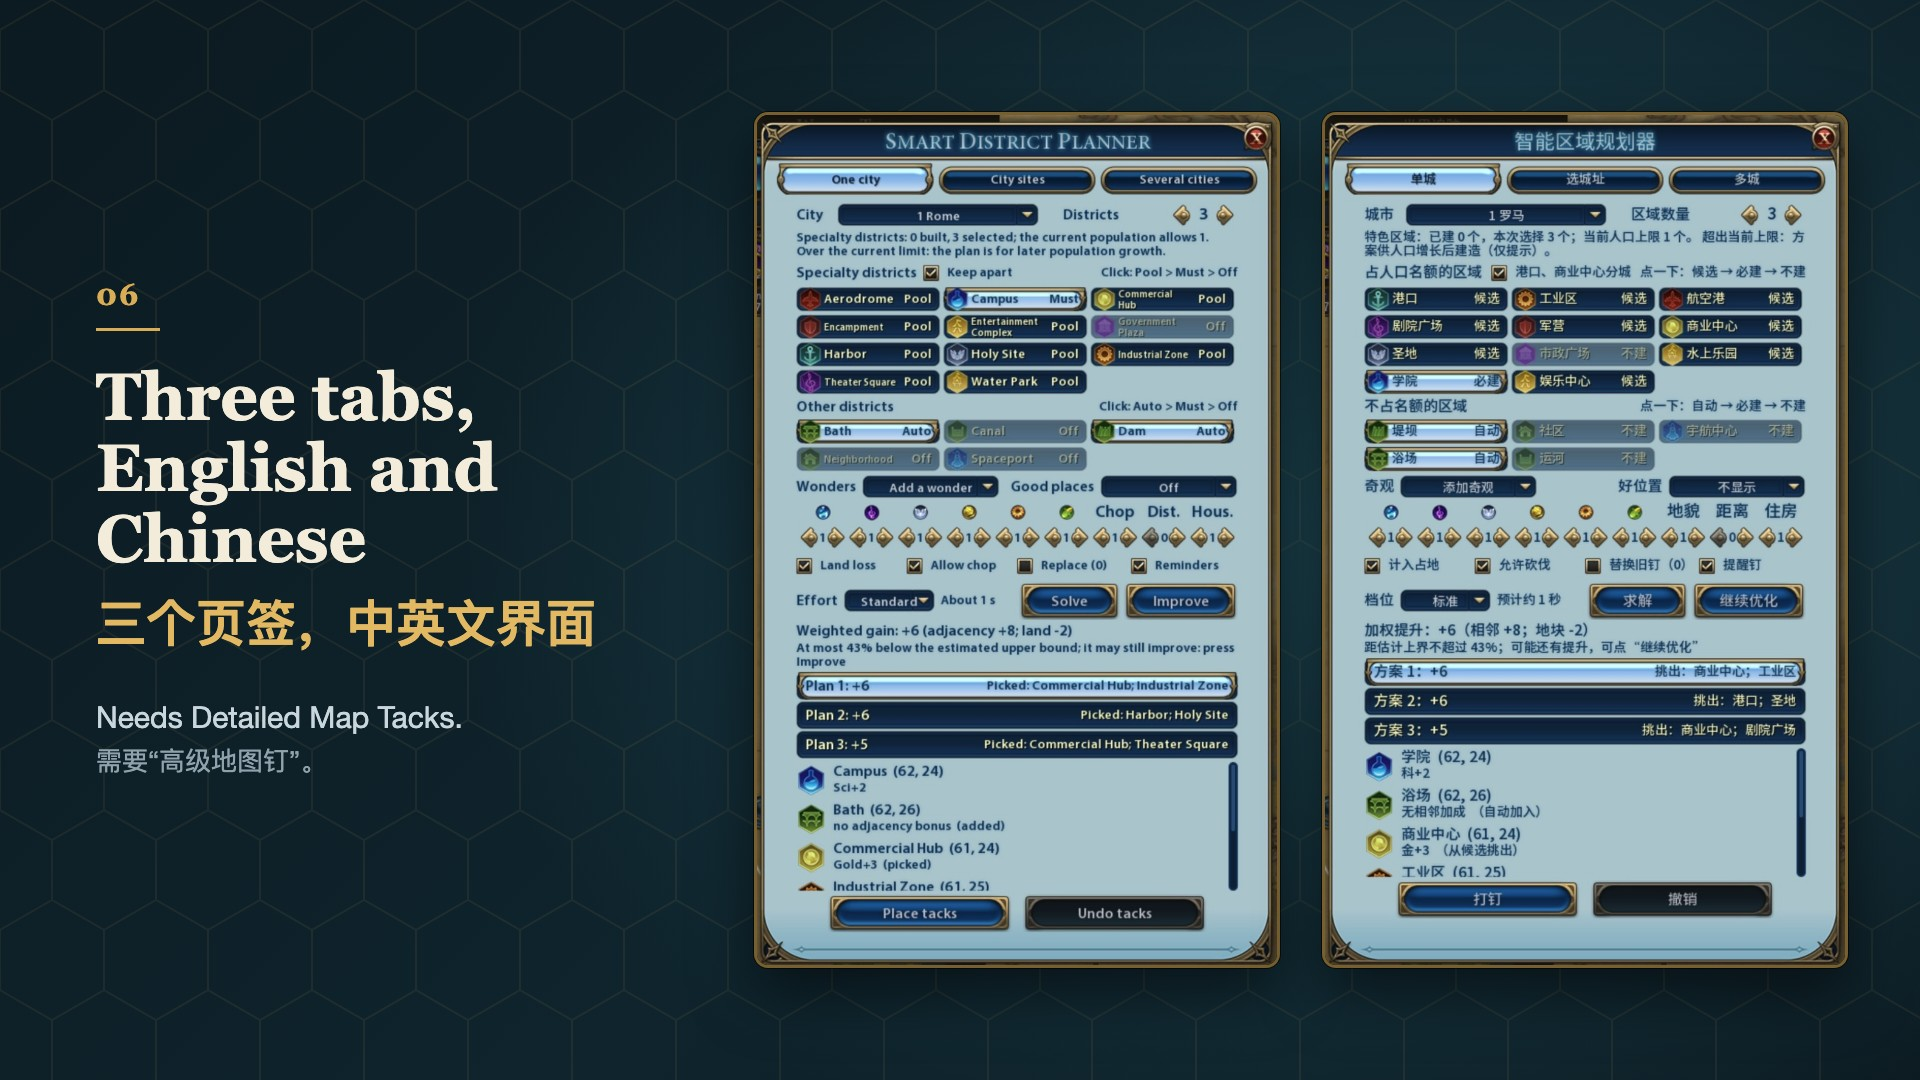
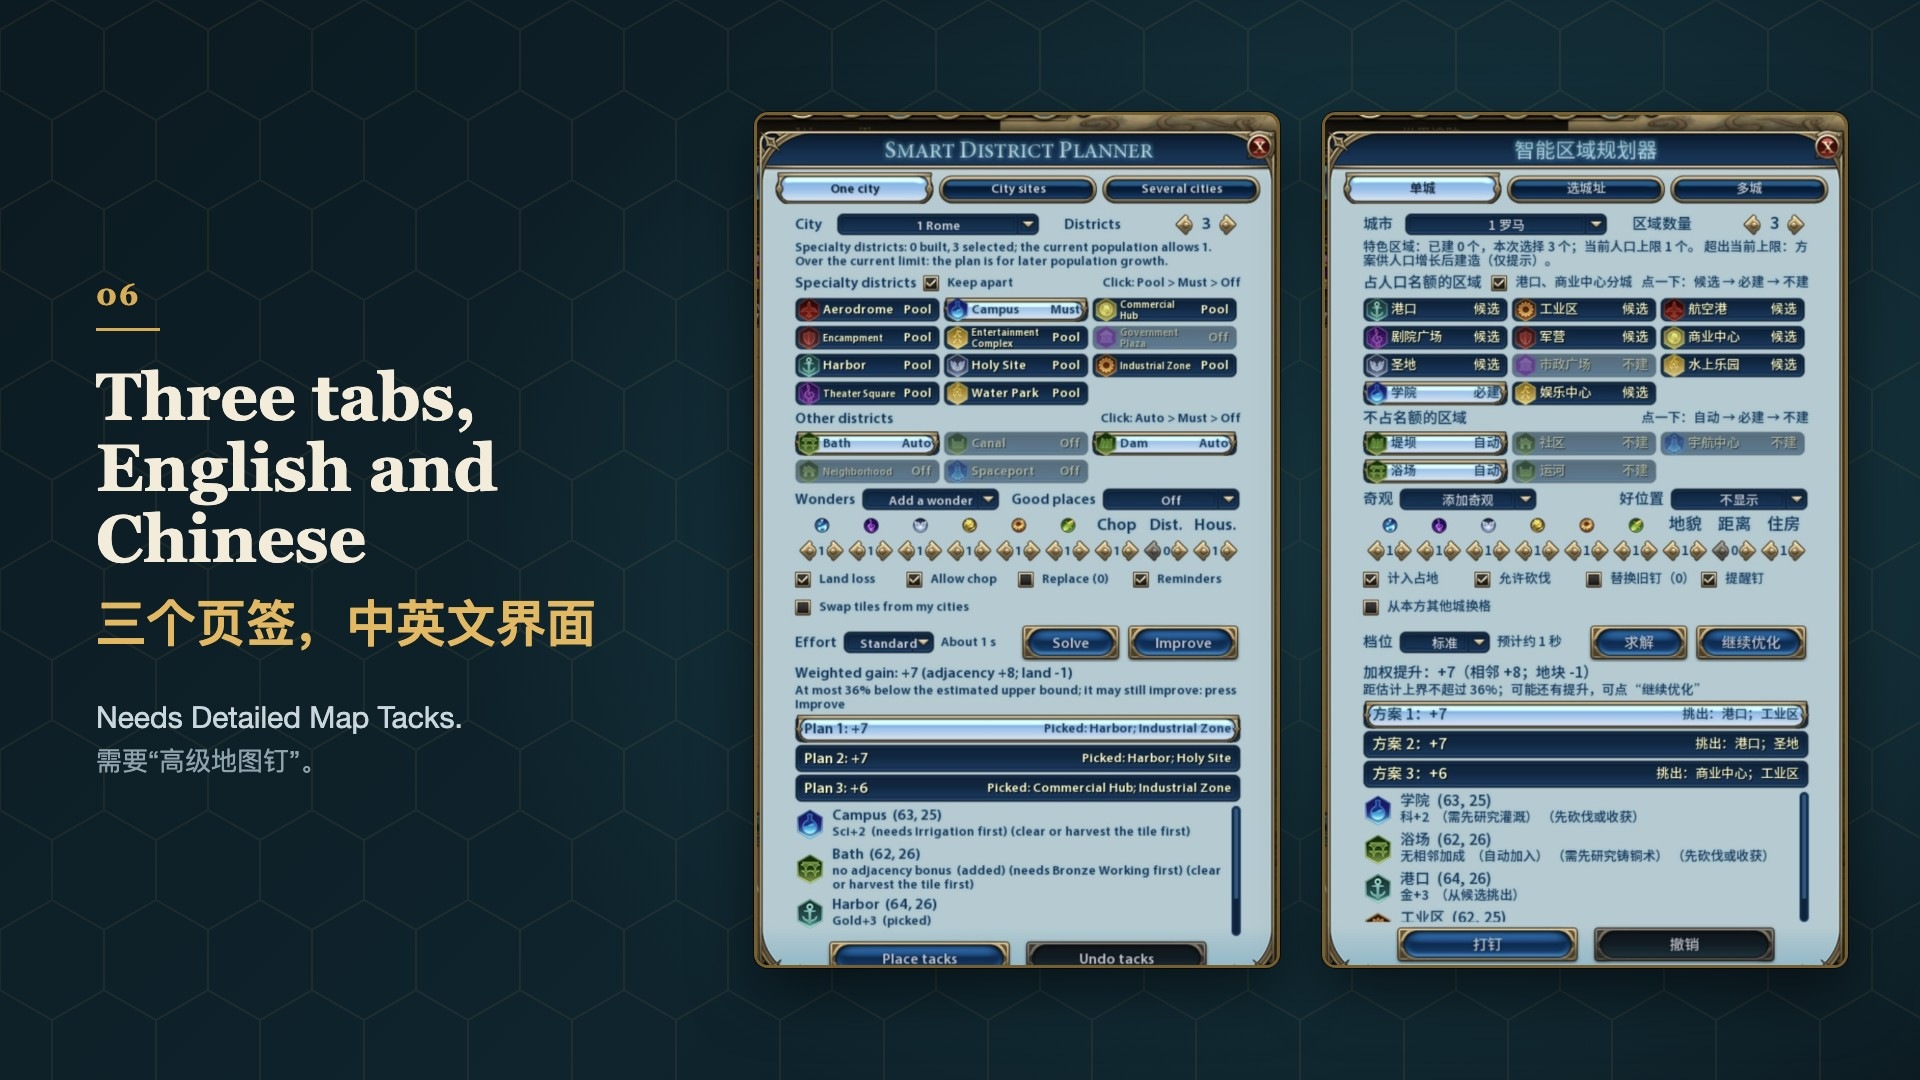
Panel screenshots with the swap switch, Chinese and English (v8)

Changed region(s): [[0.375, 0.0917, 0.9688, 0.9167]]

diff --git a/report/template_en.html b/report/template_en.html
@@ -338,8 +338,8 @@ details.appx[open] > summary { margin-bottom: 8px; }
     </div>
   </div>
   <div class="shots">
-    <figure class="tall"><img src="images/v7-en-panel-single.jpg" alt="The One city tab: districts in two grids, Campus set to Must, 3 districts, three plans in the result" loading="lazy"><figcaption>The One city tab: Campus is a Must, 3 districts, the other specialty districts are in the pool, the Dam and the Bath (Rome's Aqueduct) on Auto, Keep apart ticked. The three plans pick different districts; the Bath is marked as added, the Commercial Hub as picked.</figcaption></figure>
-    <figure class="tall"><img src="images/v7-en-panel-multi.jpg" alt="The Several cities tab: three site tacks take part, a shared list, 4 per city, the Great Library chosen" loading="lazy"><figcaption>The Several cities tab: three site tacks and the capital planned together; in the shared list the Campus, Holy Site, Commercial Hub and Government Plaza are Musts, 4 per city, with the Great Library. Only one Government Plaza per empire: it goes to Site 2, first in the list, and the other three cities take a Pool district instead; 18 districts across the four cities.</figcaption></figure>
+    <figure class="tall"><img src="images/v8-en-panel-single.jpg" alt="The One city tab: districts in two grids, Campus set to Must, 3 districts, three plans in the result" loading="lazy"><figcaption>The One city tab: Campus is a Must, 3 districts, the other specialty districts are in the pool, the Dam and the Bath (Rome's Aqueduct) on Auto, Keep apart and Land loss ticked. The weighted gain is split into adjacency and land; the three plans pick different districts; the Bath is marked as added, the Harbor as picked, with the tech each needs first and "clear or harvest the tile first".</figcaption></figure>
+    <figure class="tall"><img src="images/v8-en-panel-multi.jpg" alt="The Several cities tab: three site tacks take part, a shared list, 4 per city, the Great Library chosen" loading="lazy"><figcaption>The Several cities tab: three site tacks and the capital planned together; in the shared list the Campus, Holy Site, Commercial Hub and Government Plaza are Musts, 4 per city, with the Great Library. Only one Government Plaza per empire: it goes to Site 2, first in the list, and the other three cities take a Pool district instead; 19 districts across the four cities, the two Dams and the Bath added automatically among them.</figcaption></figure>
     <figure class="tall"><img src="images/v8-en-panel-sites.jpg" alt="The City sites tab: 5 districts ticked, each site scored with 3, three plans" loading="lazy"><figcaption>The City sites tab: 5 districts ticked, each site scored with 3; 40 of 160 candidate sites scored with districts, three plans.</figcaption></figure>
     <figure class="span2"><img src="images/v7-en-sites-tooltip.jpg" alt="A site's tooltip: Fresh Water, its distances, Diamonds, Gypsum and Wine, unrevealed tiles, disaster risk, features and districts" loading="lazy"><figcaption>Hovering a site: its water, how far it is from your nearest city and from the plan's other sites, the Luxury resources it gets (Gypsum counts as a new kind there), the natural disaster risk, and its features and districts.</figcaption></figure>
     <figure><img src="images/v3-coverage-tooltip.jpg" alt="Hovering an Industrial Zone row: DMT's breakdown and the cities in its reach" loading="lazy"><figcaption>Hovering a district with a reach: DMT's breakdown, then the cities it covers.</figcaption></figure>

diff --git a/report/template.html b/report/template.html
@@ -339,8 +339,8 @@ details.appx[open] > summary { margin-bottom: 8px; }
     </div>
   </div>
   <div class="shots">
-    <figure class="tall"><img src="images/v7-panel-single.jpg" alt="单城页签：区域分两组排成网格，学院必建，区域数量 3，结果有三套方案" loading="lazy"><figcaption>单城页签：学院必建、区域数量 3，其余占名额的区域是候选，堤坝和浴场（罗马的水渠）为自动，勾着“港口、商业中心分城”。三套方案挑出的区域各不相同；结果里浴场标“自动加入”，商业中心标“从候选挑出”。</figcaption></figure>
-    <figure class="tall"><img src="images/v7-panel-multi.jpg" alt="多城页签：三个城址钉与首都参与，共用清单，每城数量 4，奇观选了大图书馆" loading="lazy"><figcaption>多城页签：首都和三个城址钉一起规划，共用清单里学院、圣地、商业中心、市政广场必建，每城数量 4，奇观选了大图书馆。市政广场全帝国只能建一个，放在列表最前的城址 2；其他三座城从候选里补足，四座城共放 18 个区域。</figcaption></figure>
+    <figure class="tall"><img src="images/v8-panel-single.jpg" alt="单城页签：区域分两组排成网格，学院必建，区域数量 3，结果有三套方案" loading="lazy"><figcaption>单城页签：学院必建、区域数量 3，其余占名额的区域是候选，堤坝和浴场（罗马的水渠）为自动，勾着“港口、商业中心分城”和“计入占地”。加权提升分成相邻和地块两部分；三套方案挑出的区域各不相同；结果里浴场标“自动加入”，港口标“从候选挑出”，还注明要先研究的科技和“先砍伐或收获”。</figcaption></figure>
+    <figure class="tall"><img src="images/v8-panel-multi.jpg" alt="多城页签：三个城址钉与首都参与，共用清单，每城数量 4，奇观选了大图书馆" loading="lazy"><figcaption>多城页签：首都和三个城址钉一起规划，共用清单里学院、圣地、商业中心、市政广场必建，每城数量 4，奇观选了大图书馆。市政广场全帝国只能建一个，放在列表最前的城址 2；其他三座城从候选里补足，四座城共放 19 个区域（含自动加入的两个堤坝和浴场）。</figcaption></figure>
     <figure class="tall"><img src="images/v8-panel-sites.jpg" alt="选城址页签：勾了 5 个区域，每个城址按 3 个估分，三套方案" loading="lazy"><figcaption>选城址页签：勾了 5 个区域，每个城址按 3 个估分；160 个候选里精评 40 个，给出三套方案。</figcaption></figure>
     <figure><img src="images/v3-coverage-tooltip.jpg" alt="悬停工业区一行：DMT 的加成来源和覆盖范围内的城市" loading="lazy"><figcaption>悬停有覆盖范围的区域：DMT 的加成来源，下面列出覆盖范围内的城市。</figcaption></figure>
     <figure class="span2"><img src="images/v4-map-reminders.jpg" alt="提醒钉：两片树林上各有一个移除地貌图标的钉，钉名 3 勿砍：圣地 信-1" loading="lazy"><figcaption>提醒钉：城址 3 的圣地挨着两片树林，打钉时在两片树林上各打一个“移除地貌”钉，钉名“3 勿砍：圣地 信-1”。</figcaption></figure>

diff --git a/workshop/src/g6-panel.html b/workshop/src/g6-panel.html
@@ -12,6 +12,6 @@
     <p>Needs Detailed Map Tacks.<span>需要“高级地图钉”。</span></p>
     </div>
   </div>
-  <div class="shot" style="width:520px;height:850px;right:640px"><img src="../../docs/images/v7-en-panel-single.jpg" style="object-position:50% 0"></div>
-  <div class="shot" style="width:520px;height:850px"><img src="../../docs/images/v7-panel-single.jpg" style="object-position:50% 0"></div>
+  <div class="shot" style="width:520px;height:850px;right:640px"><img src="../../docs/images/v8-en-panel-single.jpg" style="object-position:50% 0"></div>
+  <div class="shot" style="width:520px;height:850px"><img src="../../docs/images/v8-panel-single.jpg" style="object-position:50% 0"></div>
 </body></html>
